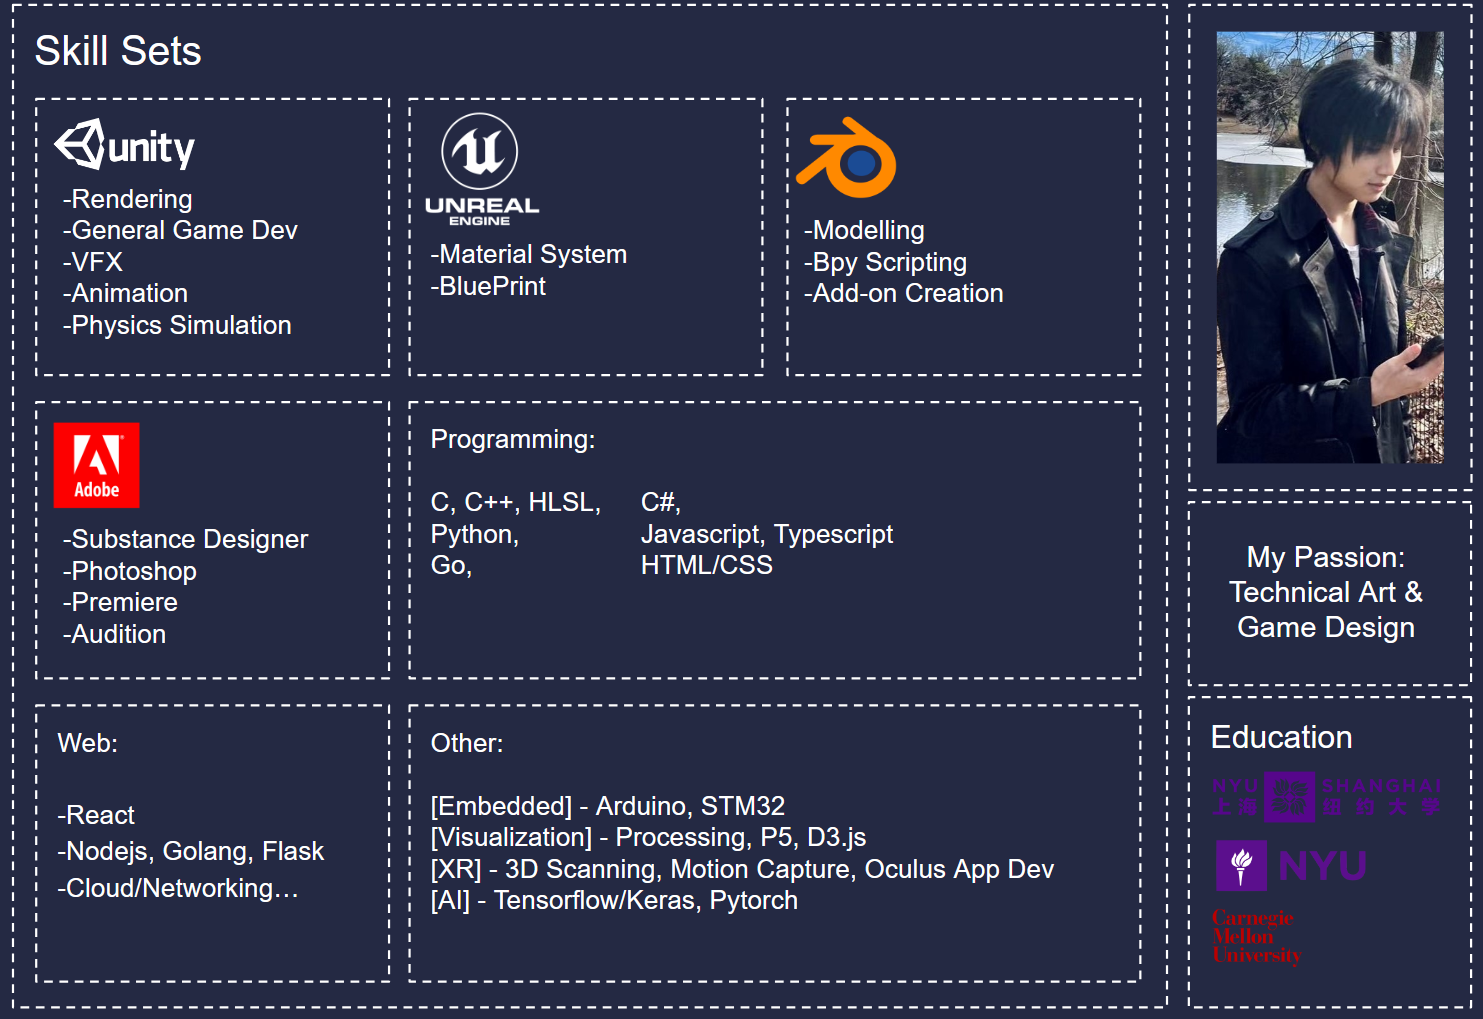
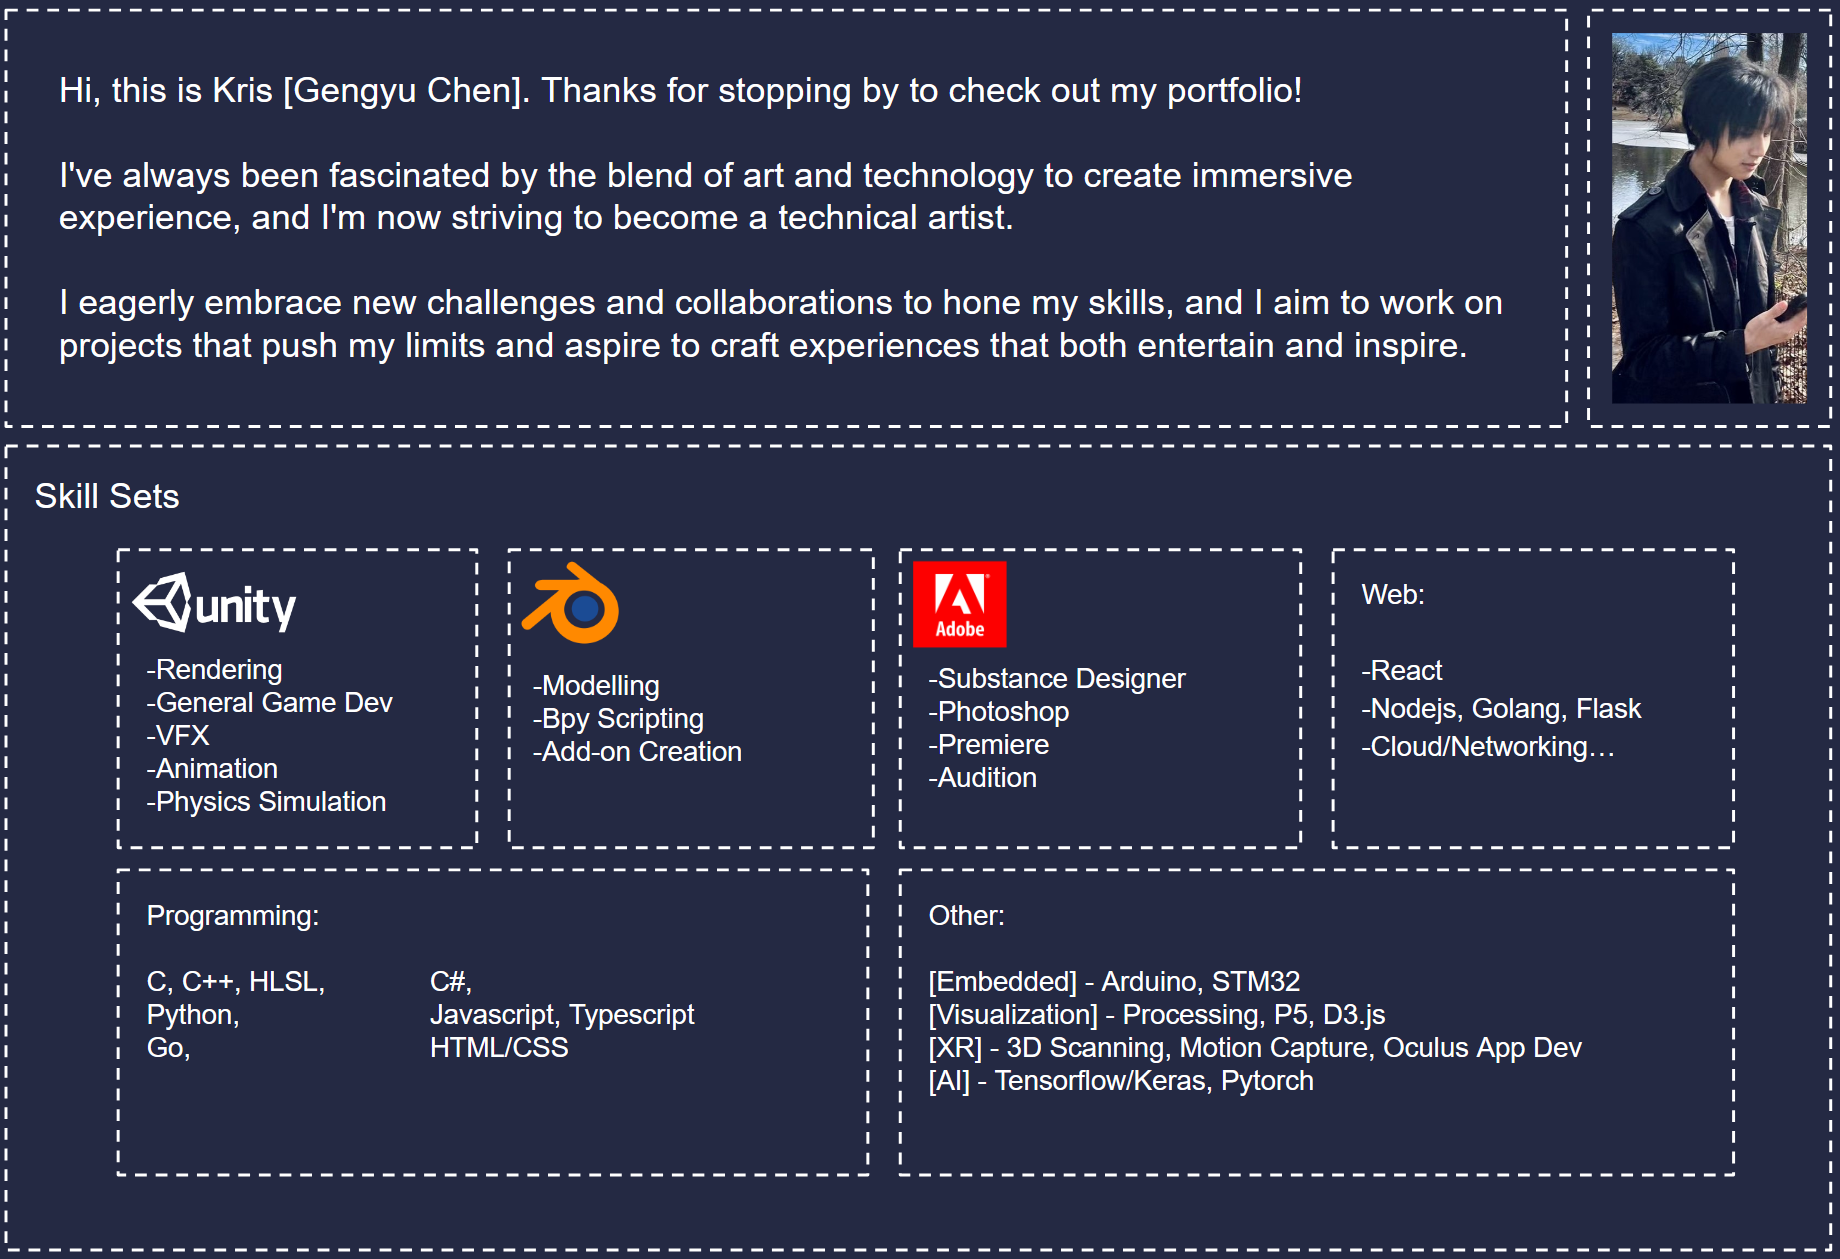
rollback bio

diff --git a/bio.html b/bio.html
@@ -45,11 +45,12 @@
 			<!-- One -->
 			<section id="one">
 				<div class="inner">
-					<header class="major">
+					<!-- <header class="major">
 						<h1>About Meee</h1>
 					</header>
-					<span class="image fit"><img src="images/bio.png" alt="" /></span>
-					<!-- <header class="major">
+					<span class="image fit"><img src="images/bio.png" alt="" /></span> -->
+					
+					<header class="major">
 						<h1>About Meee</h1>
 					</header>
 					<span class="image right"><img src="images/photo.jpg" alt="" /></span>
@@ -64,7 +65,7 @@
 					<p>I'm always excited to take on new challenges, projects, and team collaborations that can help me
 						use and improve my skills. I'm looking forward to working on projects that can push my
 						boundaries and help me grow as a technical artist. I hope to create meaningful experiences that
-						can entertain and inspire people.</p> -->
+						can entertain and inspire people.</p>
 				</div>
 			</section>
 
